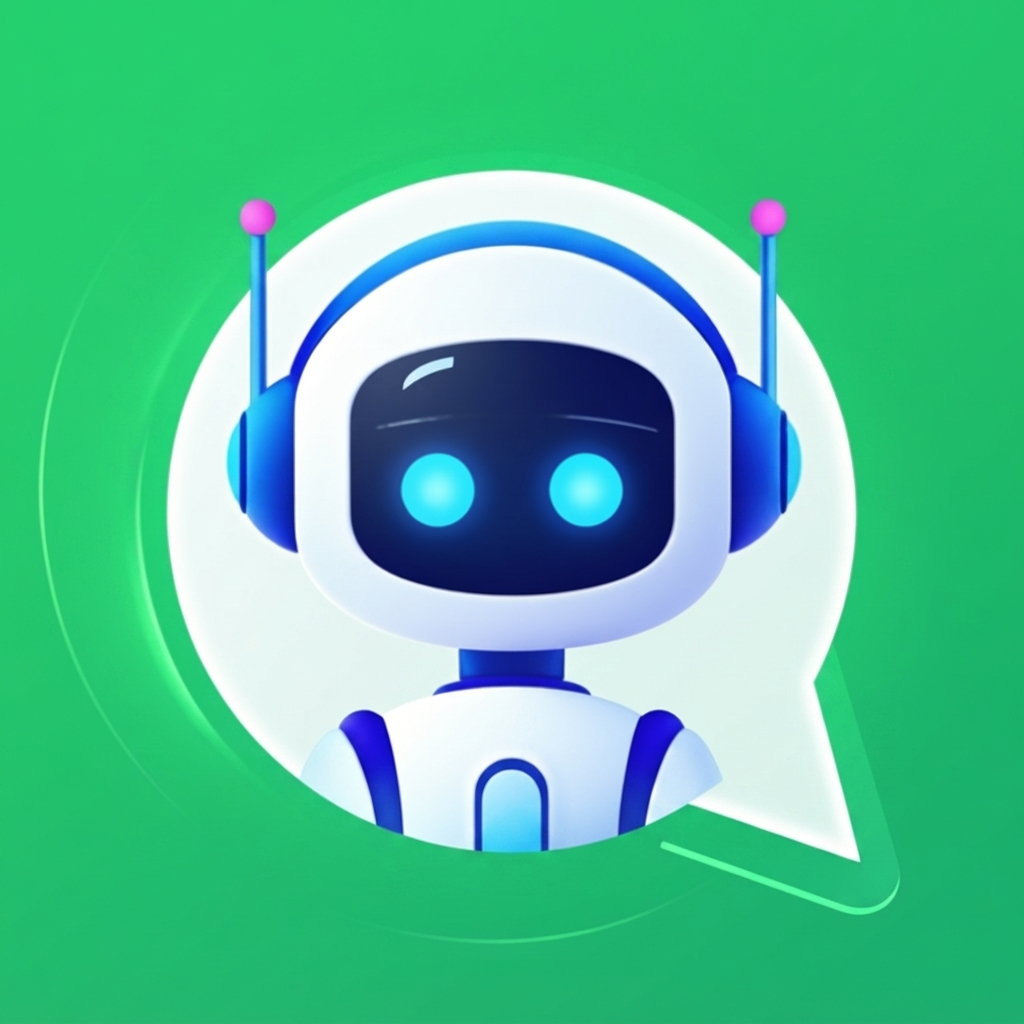
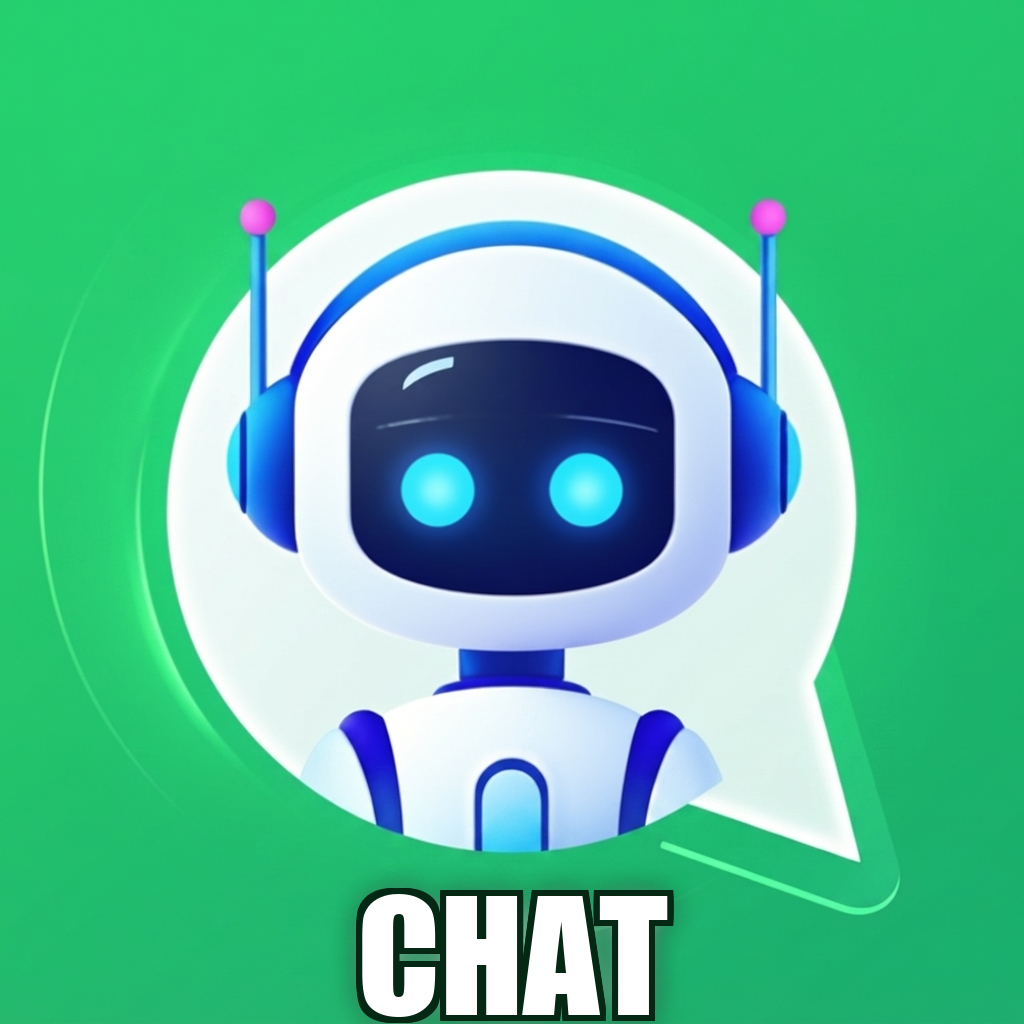
feat: escreve CHAT no ícone flutuante e adiciona brilho neon verde
- Adiciona o texto "CHAT" (branco, contorno escuro, com leve brilho)
  na faixa verde abaixo do robozinho no ícone flutuante de Suporte,
  via PIL — mesmo robô e fundo, só acrescenta o texto. Backup da
  versão sem texto em support-robot-cutout-green-notext-backup.png.
- Troca o box-shadow estático do botão por uma animação de brilho
  neon pulsante usando a mesma cor verde do ícone "Relatório"
  (--green: #35d07f).

Changed region(s): [[0.3438, 0.8438, 0.6562, 1.0]]

diff --git a/app/hostnet-server/public/index.html b/app/hostnet-server/public/index.html
@@ -1001,7 +1001,15 @@
     -webkit-tap-highlight-color: transparent;
     outline: none;
     overflow: hidden;
-    box-shadow: 0 4px 14px rgba(0, 0, 0, 0.4);
+    animation: supportFabGlow 1.8s ease-in-out infinite;
+  }
+  @keyframes supportFabGlow {
+    0%, 100% {
+      box-shadow: 0 4px 14px rgba(0, 0, 0, 0.4), 0 0 12px rgba(53, 208, 127, 0.55), 0 0 4px rgba(53, 208, 127, 0.6);
+    }
+    50% {
+      box-shadow: 0 4px 14px rgba(0, 0, 0, 0.4), 0 0 26px rgba(53, 208, 127, 0.95), 0 0 10px rgba(53, 208, 127, 0.9);
+    }
   }
   .support-fab:focus, .support-fab:active { outline: none; }
   .support-fab img { width: 100%; height: 100%; object-fit: cover; display: block; }
